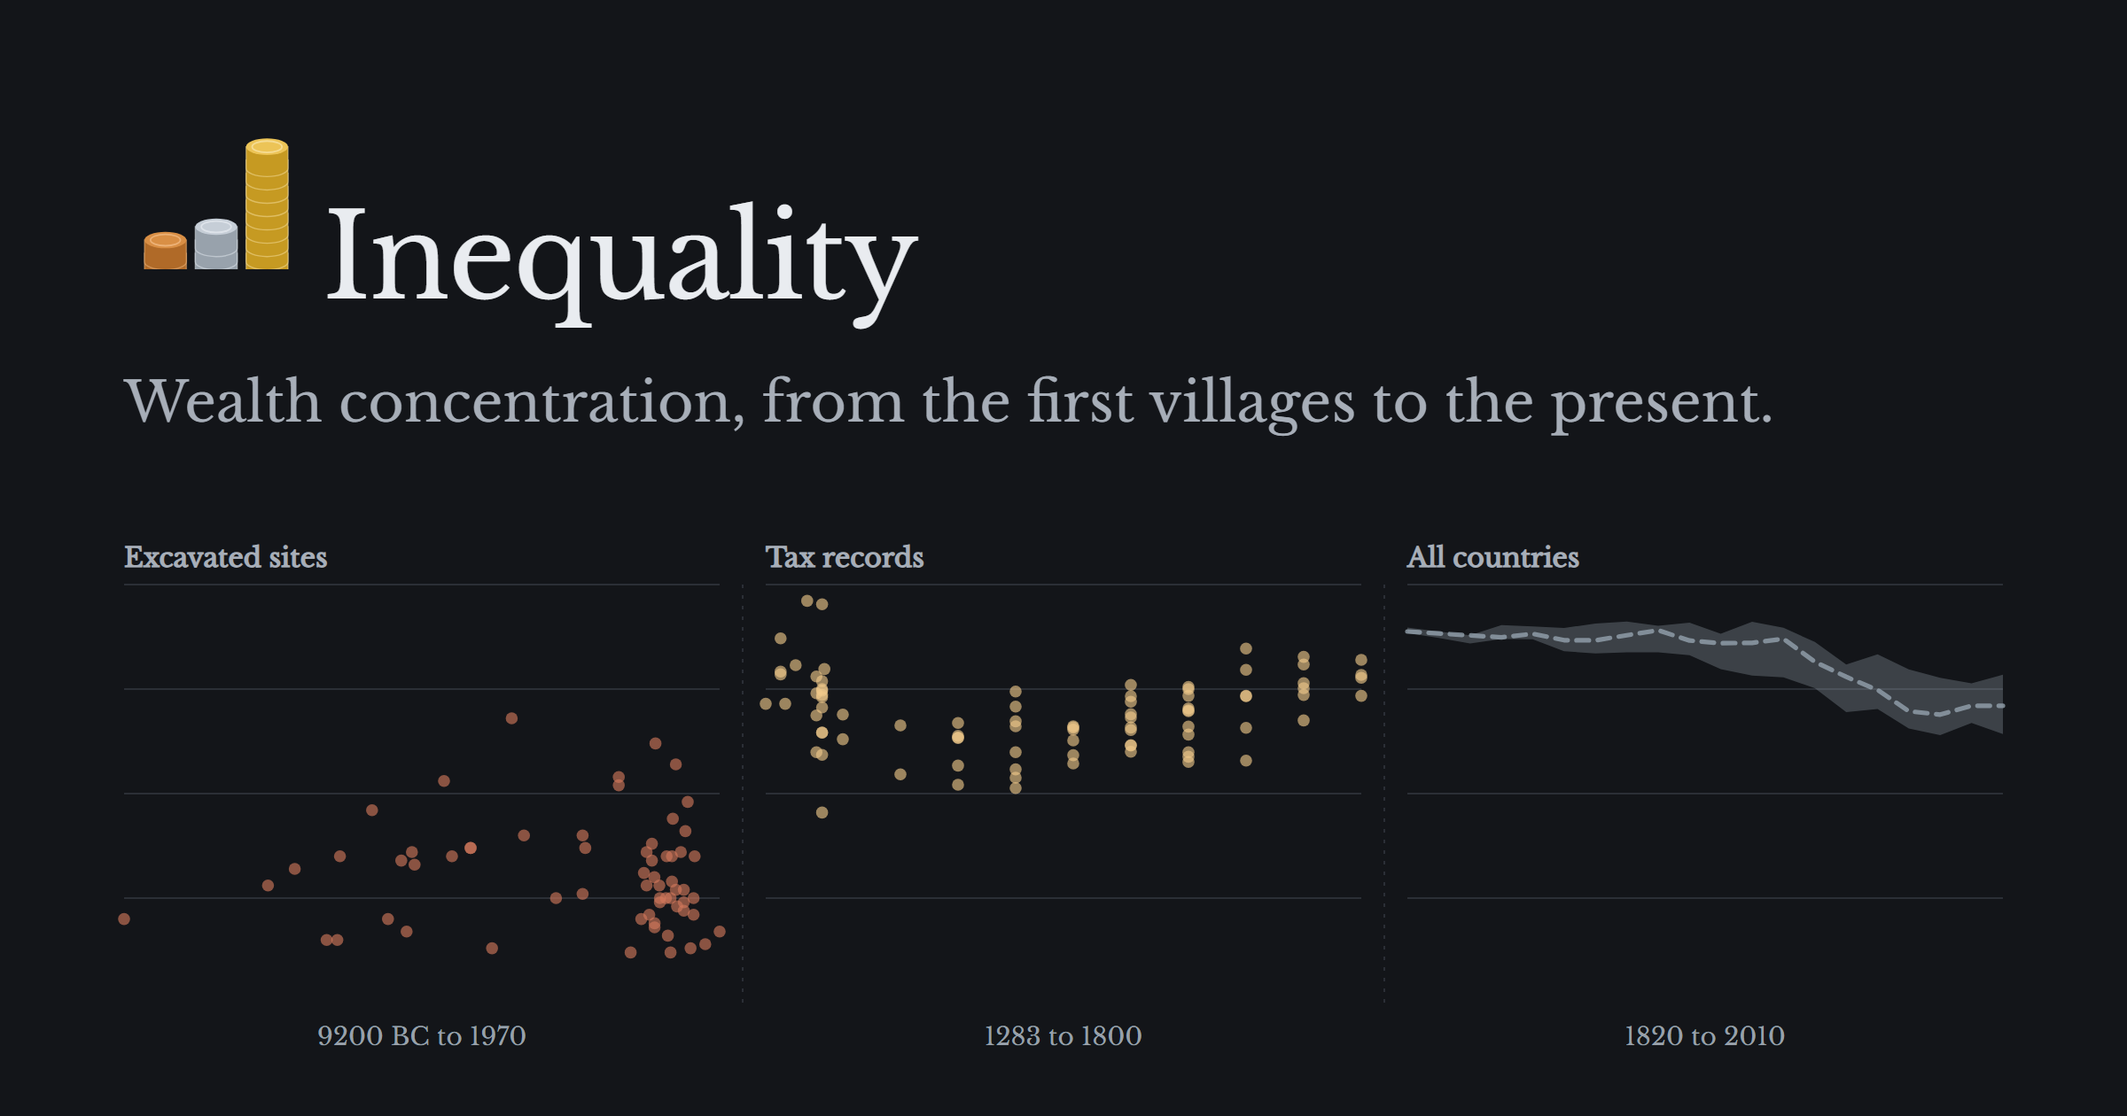
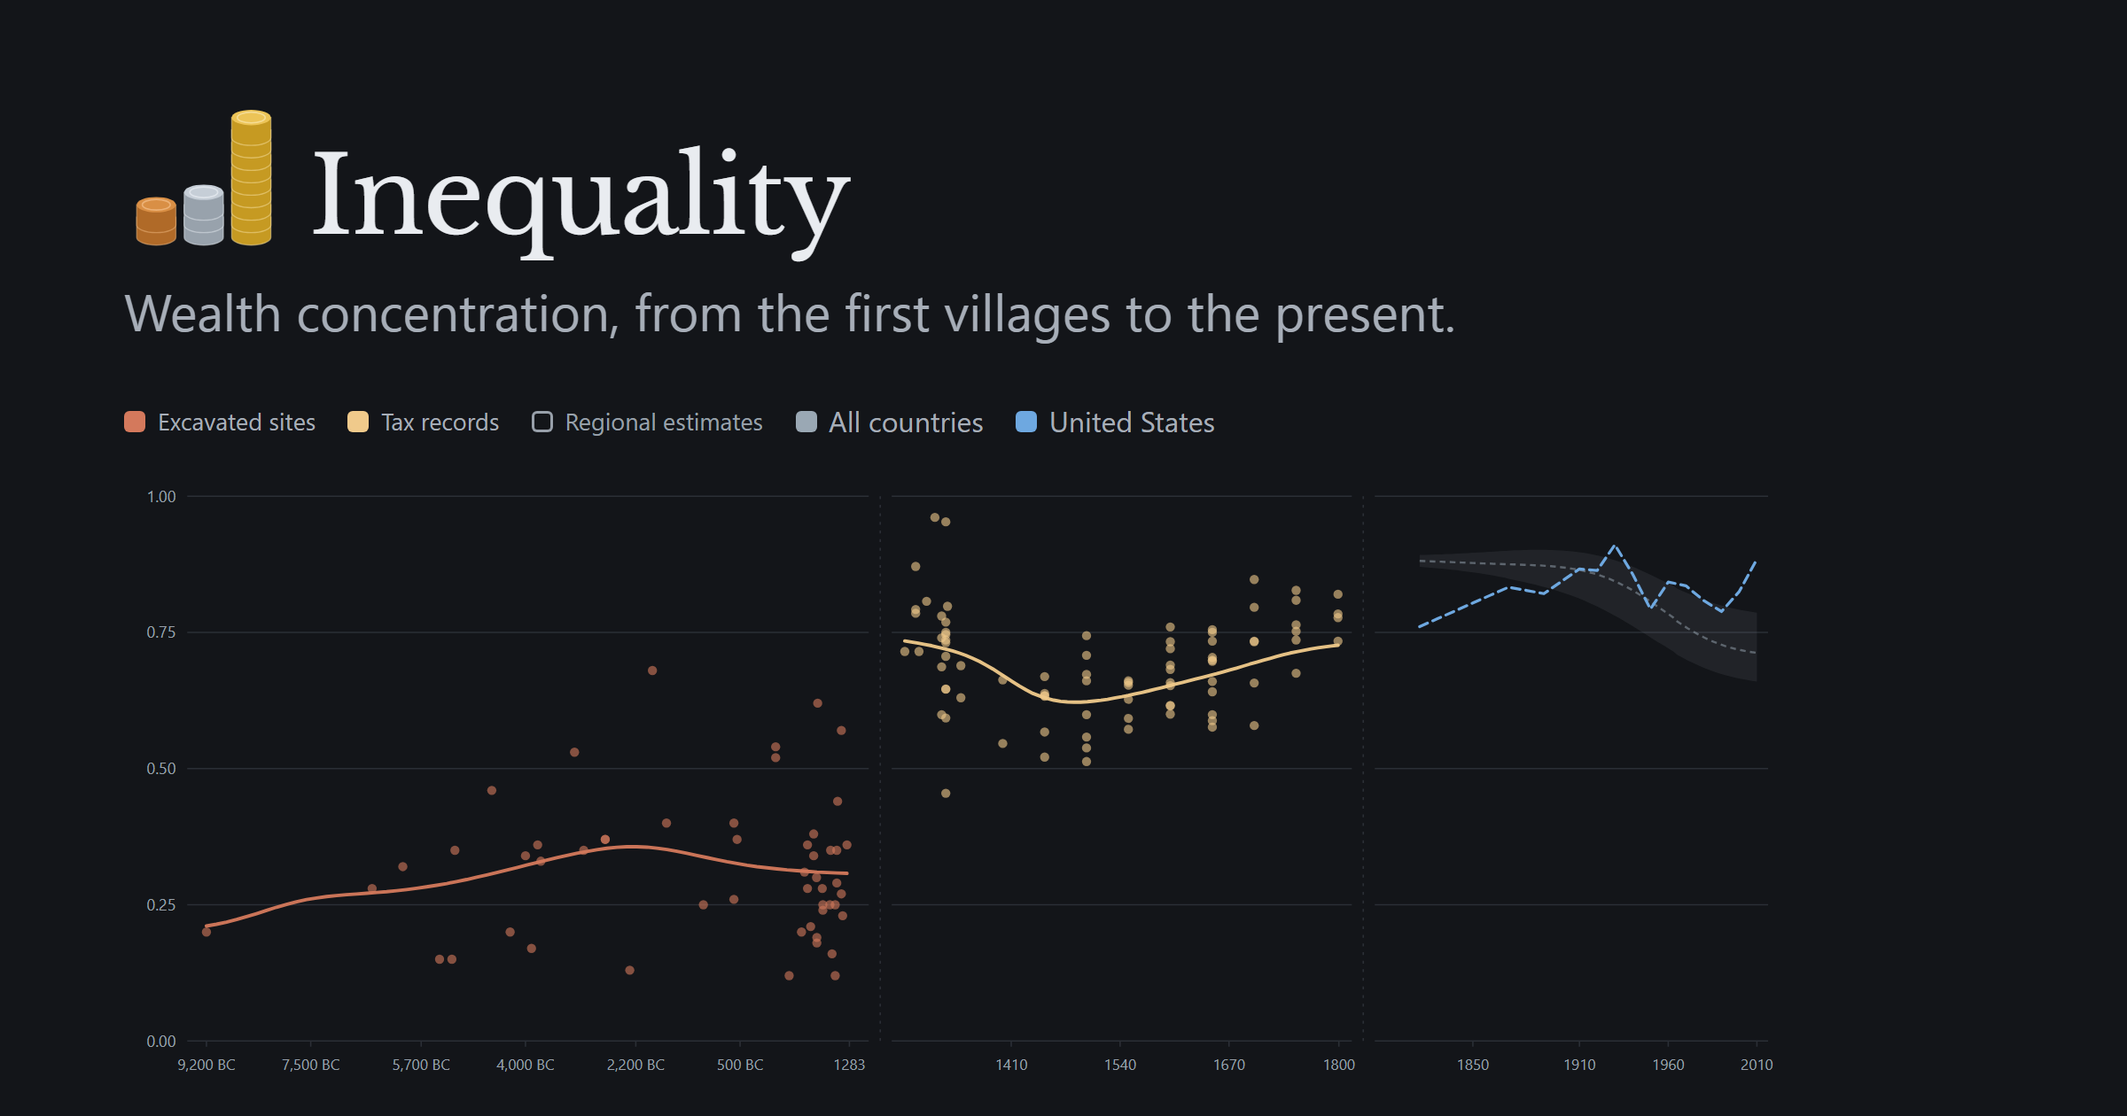
Inequality: the share card IS the page's chart now, not a redraw of it
Charlie: "the picture in the whatsapp message still doesnt look like the
picture on the main page". It did not, and patching the differences one at a
time was never going to close the gap, because the card was a second
implementation of a drawing that already exists.

It had equal-width panels where the page weights them by the log of their
span, panel headers the page dropped, one range caption where the page has a
dated axis, and neither the kernel averages nor the picked country's line,
because reimplementing those here would have been a second copy of an
estimator to keep in step. Every one of those is the same failure.

So the card now loads the page over a throwaway local server, waits for it to
draw, and lifts its h1, its standfirst, its key and its `#eras` SVG verbatim.
It renders wider than a browser would allow, by raising the .wrap cap before
the chart measures itself, because a 960px chart stretched to 1200 is soft.
There is nothing left to drift.

Two things that had to be learned by doing: file:// cannot fetch data.json, so
the page never draws and the first attempt timed out waiting for a polygon;
and the wordmark, pasted into this file as a string, stretched to four hundred
pixels tall because the page's own stylesheet gives `.mark` a flex:none that a
pasted copy does not carry. Both are the same lesson as the chart, so the
header is lifted too.

The title also comes up 0.1em, page and card together. Sitting the word
[…]

diff --git a/site/inequality/style.css b/site/inequality/style.css
@@ -543,9 +543,15 @@ h1.coin-title {
    zero-height inline span inside .title-word to find the true baseline, compare
    it with the mark's box top plus (60.4-8)/48 of its height, and close the gap.
    That came out at 0.305em on a laptop and 0.275em on a phone, on top of the
-   0.26em already applied. Hence 0.55em, and it holds at both ends because every
-   term in the sum is in em. */
-.title-word { display: inline-block; transform: translateY(0.55em); }
+   0.26em already applied, which put the baseline exactly on the coins at 0.55em.
+
+   0.45, not 0.55: exact alignment turned out to be a hair too low by eye, which
+   is the usual result of optical versus geometric centring - the coins are a
+   solid mass and the word is mostly white space, so sitting them on one line
+   makes the word read as having sunk. The measurement was still the point,
+   because it is what turned a fifth guess into one adjustment from a known
+   position. */
+.title-word { display: inline-block; transform: translateY(0.45em); }
 
 /* More air under the title on a phone, where the standfirst wraps to two lines
    and ran straight into the coins. This has to come AFTER the base rule above:

diff --git a/site/style.css b/site/style.css
@@ -543,9 +543,15 @@ h1.coin-title {
    zero-height inline span inside .title-word to find the true baseline, compare
    it with the mark's box top plus (60.4-8)/48 of its height, and close the gap.
    That came out at 0.305em on a laptop and 0.275em on a phone, on top of the
-   0.26em already applied. Hence 0.55em, and it holds at both ends because every
-   term in the sum is in em. */
-.title-word { display: inline-block; transform: translateY(0.55em); }
+   0.26em already applied, which put the baseline exactly on the coins at 0.55em.
+
+   0.45, not 0.55: exact alignment turned out to be a hair too low by eye, which
+   is the usual result of optical versus geometric centring - the coins are a
+   solid mass and the word is mostly white space, so sitting them on one line
+   makes the word read as having sunk. The measurement was still the point,
+   because it is what turned a fifth guess into one adjustment from a known
+   position. */
+.title-word { display: inline-block; transform: translateY(0.45em); }
 
 /* More air under the title on a phone, where the standfirst wraps to two lines
    and ran straight into the coins. This has to come AFTER the base rule above:

diff --git a/scripts/make_inequality_card.py b/scripts/make_inequality_card.py
@@ -1,172 +1,138 @@
 """Render the link-preview card for the inequality page.
 
-Drawn from data/out/wealth.json rather than screenshotted, so it cannot drift
-into showing a chart the page no longer has. Dark, like the other card and like
-the chat window it will be unfurled in. 2400x1260, twice what the scrapers ask
-for.
+THE CHART ON THIS CARD IS THE PAGE'S OWN CHART, lifted out of a real render.
 
-The strip along the bottom is the real Gini data in the page's own three
-panels, so the card carries the actual shape of the finding: it climbs through
-the archaeology, climbs again through the tax registers, and falls in the
-twentieth century.
+The card used to redraw the data itself, on the theory that a hand-drawn chart
+could not go stale the way a screenshot could. It went stale anyway, just more
+quietly: it drew Alfani's regional series as four lines when the page draws
+them as dots, it kept panel headers after the page dropped them, it labelled
+the panels "Excavated settlements" and "Whole countries" after the key had
+settled on "Excavated sites" and "All countries", it had equal-width panels
+where the page weights them by the log of their span, and it had neither the
+kernel averages nor the picked country's line, because reimplementing those
+here would have been a second copy of an estimator to keep in step.
 
-It also has to carry the page's own MARKS and NAMES, which is the half that
-drifted. The card was drawing Alfani's regional series as four lines through
-the middle panel while the page draws them as dots and keeps them folded away
-by default, and it labelled the panels "Excavated settlements", "Tax registers"
-and "Whole countries" after the key had settled on "Excavated sites", "Tax
-records" and "All countries". A preview that shows a chart the reader will not
-find is worse than no preview.
+Every one of those is the same failure: a second implementation of a drawing
+that already exists, diverging one commit at a time. So this loads the page,
+waits for it to draw, and takes its `#eras` SVG and its key verbatim. There is
+nothing left to drift.
 
-    python scripts/make_wealth_card.py
+The page is rendered wider than a browser window would allow, by lifting the
+.wrap max-width before the chart measures itself, because the card is 1200
+wide and a 960px chart stretched into it would be soft. Dark, like the other
+card and like the chat window it will be unfurled in. 2400x1260 output, twice
+what the scrapers ask for.
+
+    python scripts/make_inequality_card.py
 """
 from __future__ import annotations
 
-import json
+import contextlib
+import functools
+import http.server
+import threading
 from pathlib import Path
 
 from playwright.sync_api import sync_playwright
 
 ROOT = Path(__file__).resolve().parents[1]
-DATA = json.loads((ROOT / "data" / "out" / "wealth.json").read_text(encoding="utf-8"))
+SITE = ROOT / "site" / "inequality"
 
 W, H = 1200, 630
-BG, INK, INK_SOFT, INK_FAINT, RULE = "#131519", "#e9ecf0", "#a7aeb8", "#98a0aa", "#2b2f36"
-# the page's own dark-mode values, which is what a chat window shows
-DEEP, EARLY, MID = "#d4795c", "#f0ca8b", "#9aa8b4"
-BRONZE, SILVER, GOLD = "#cd7f32", "#c3cad2", "#e3b93f"
+PAD = 70
+# how tall the lifted chart is allowed to be once it is scaled into the card
+CHART_H = 348
+# the page's own dark palette, so the card reads as the page at night
+BG, INK, INK_SOFT = "#131519", "#e9ecf0", "#a7aeb8"
 
-# the chart strip
-CX, CY, CW, CH = 70, 330, W - 140, 236
-GUT = 26
+@contextlib.contextmanager
+def served(root: Path):
+    """The page over http, not file://.
 
-
-def panels():
-    """The same three the page draws, on the Gini, with the same names.
-
-    Dots and a band, no trend lines. The page fits a Gaussian kernel through
-    each scatter, and reimplementing that here would be a second copy of an
-    estimator to keep in step with the first; dots alone are still honestly
-    what the page shows, just without the summary drawn over them.
+    It fetches data.json, and a file:// origin cannot, so a file:// render is a
+    page that never draws anything. The chart simply never appeared and the
+    first attempt at this timed out waiting for a polygon.
     """
-    deep = [(p["year"], p["gini"]) for p in DATA["points"]
-            if p["layer"] == "deep" and p.get("gini") is not None]
-    early = [(p["year"], p["gini"]) for p in DATA["points"]
-             if p["layer"] == "preindustrial" and not p.get("rollup")
-             and p.get("gini") is not None]
-    return [
-        {"label": "Excavated sites", "dots": deep, "colour": DEEP, "band": []},
-        {"label": "Tax records", "dots": early, "colour": EARLY, "band": []},
-        {"label": "All countries", "dots": [], "colour": MID, "band": _quartiles()},
-    ]
+    handler = functools.partial(http.server.SimpleHTTPRequestHandler,
+                                directory=str(root))
+    srv = http.server.ThreadingHTTPServer(("127.0.0.1", 0), handler)
+    threading.Thread(target=srv.serve_forever, daemon=True).start()
+    try:
+        yield f"http://127.0.0.1:{srv.server_address[1]}/"
+    finally:
+        srv.shutdown()
+        srv.server_close()
 
 
-def _quartiles():
-    """p25, p50 and p75 across every country with a Gini that decade.
+def lift() -> dict:
+    """Open the real page and take its header, its key and its chart.
 
-    The same shape the page's third panel draws. A single median line, which is
-    what the card had, said nothing about how far apart countries were.
+    The wordmark used to be a copy of the page's SVG pasted into this file as a
+    string, and the copy lost: the page's own stylesheet, which the card also
+    loads, styles `.mark` with a flex:none and an em height, and a pasted mark
+    without that class stretched to fill the flex row. The coins came out four
+    hundred pixels tall. Lifting the h1 solves it the same way lifting the chart
+    solved the chart, by having one implementation instead of two.
     """
-    by = {}
-    for c in DATA["countries"].values():
-        for y, v in c["industrial"]["gini"]:
-            by.setdefault(y, []).append(v)
-
-    def q(vs, p):
-        i = (len(vs) - 1) * p
-        lo, hi = int(i), min(int(i) + 1, len(vs) - 1)
-        return vs[lo] + (vs[hi] - vs[lo]) * (i - lo)
-
-    out = []
-    for y in sorted(by):
-        vs = sorted(by[y])
-        if len(vs) < 4:          # a quartile over three countries is noise
-            continue
-        out.append((y, q(vs, 0.25), q(vs, 0.5), q(vs, 0.75)))
+    with served(SITE) as base, sync_playwright() as pw:
+        br = pw.chromium.launch()
+        pg = br.new_page(viewport={"width": 1320, "height": 1000},
+                         color_scheme="dark", device_scale_factor=1)
+        pg.goto(base, wait_until="networkidle")
+        pg.wait_for_selector("#eras polygon", timeout=15000)
+        # widen the column BEFORE the chart measures itself, then make it
+        # re-measure: the chart takes its pixel width from its container, and
+        # the page caps that at 960
+        pg.add_style_tag(content=".wrap { max-width: 1240px !important; }")
+        pg.evaluate("() => window.dispatchEvent(new Event('resize'))")
+        pg.wait_for_timeout(600)
+        out = {k: pg.eval_on_selector(sel, "e => e.outerHTML") for k, sel in (
+            ("head", "h1.coin-title"), ("sf", ".standfirst"),
+            ("legend", "#legend-eras"), ("svg", "#eras"))}
+        box = pg.eval_on_selector(
+            "#eras", "e => e.getAttribute('viewBox').split(' ').slice(2).map(Number)")
+        br.close()
+    out["ratio"] = box[1] / box[0]
     return out
 
 
-def draw() -> str:
-    each = (CW - GUT * 2) / 3
-    parts = []
-    for i, pan in enumerate(panels()):
-        x0 = CX + i * (each + GUT)
-        years = [y for y, _ in pan["dots"]] + [b[0] for b in pan["band"]]
-        lo, hi = min(years), max(years)
-        span = (hi - lo) or 1
-        sx = lambda y: x0 + (y - lo) / span * each          # noqa: E731
-        sy = lambda v: CY + (1 - v) * CH                    # noqa: E731
-
-        for t in (0.25, 0.5, 0.75, 1.0):
-            parts.append(f'<line x1="{x0:.0f}" y1="{sy(t):.1f}" x2="{x0 + each:.0f}" '
-                         f'y2="{sy(t):.1f}" stroke="{RULE}" stroke-width="1"/>')
-        if pan["band"]:
-            top = [f"{sx(y):.1f},{sy(p75):.1f}" for y, _, _, p75 in pan["band"]]
-            bot = [f"{sx(y):.1f},{sy(p25):.1f}" for y, p25, _, _ in reversed(pan["band"])]
-            parts.append(f'<polygon points="{" ".join(top + bot)}" '
-                         # .3, not the page's .15: the page shades against white
-                         # and this shades against #131519, where a fill that
-                         # light is invisible
-                         f'fill="{pan["colour"]}" fill-opacity=".3"/>')
-            mid = " ".join(f"{sx(y):.1f},{sy(p50):.1f}" for y, _, p50, _ in pan["band"])
-            parts.append(f'<polyline points="{mid}" fill="none" stroke="{pan["colour"]}" '
-                         f'stroke-width="2.6" stroke-opacity=".75" stroke-dasharray="7 5" '
-                         f'stroke-linejoin="round" stroke-linecap="round"/>')
-        for y, v in pan["dots"]:
-            parts.append(f'<circle cx="{sx(y):.1f}" cy="{sy(v):.1f}" r="3.4" '
-                         f'fill="{pan["colour"]}" fill-opacity=".62"/>')
-        parts.append(f'<text x="{x0:.0f}" y="{CY - 10:.0f}" font-size="15" '
-                     f'font-weight="600" fill="{INK_SOFT}">{pan["label"]}</text>')
-        parts.append(f'<text x="{x0 + each / 2:.0f}" y="{CY + CH + 24:.0f}" '
-                     f'text-anchor="middle" font-size="14" fill="{INK_FAINT}">'
-                     f'{_span(lo, hi)}</text>')
-        if i < 2:
-            gx = x0 + each + GUT / 2
-            parts.append(f'<line x1="{gx:.0f}" y1="{CY:.0f}" x2="{gx:.0f}" '
-                         f'y2="{CY + CH:.0f}" stroke="{RULE}" stroke-width="1" '
-                         f'stroke-dasharray="2 4"/>')
-    return "".join(parts)
-
-
-def _span(lo: int, hi: int) -> str:
-    fmt = lambda y: f"{abs(y)} BC" if y < 0 else str(y)     # noqa: E731
-    return f"{fmt(lo)} to {fmt(hi)}"
-
-
-MARK = """<svg viewBox="0 8 58 48" width="104" height="86"><path d="M6.40 51.00 L6.40 57.80 A6.60 2.60 0 0 0 19.60 57.80 L19.60 51.00 Z" fill="#b06a28" stroke="#f0b982" stroke-width=".4" stroke-opacity=".5"/><path d="M6.40 46.80 L6.40 53.60 A6.60 2.60 0 0 0 19.60 53.60 L19.60 46.80 Z" fill="#b06a28" stroke="#f0b982" stroke-width=".4" stroke-opacity=".5"/><ellipse cx="13.00" cy="46.80" rx="6.60" ry="2.60" fill="#d98f45"/><ellipse cx="13.00" cy="46.80" rx="4.70" ry="1.80" fill="none" stroke="#f0b982" stroke-width=".5" opacity=".8"/><path d="M22.40 51.00 L22.40 57.80 A6.60 2.60 0 0 0 35.60 57.80 L35.60 51.00 Z" fill="#98a2ac" stroke="#e3e9ef" stroke-width=".4" stroke-opacity=".5"/><path d="M22.40 46.80 L22.40 53.60 A6.60 2.60 0 0 0 35.60 53.60 L35.60 46.80 Z" fill="#98a2ac" stroke="#e3e9ef" stroke-width=".4" stroke-opacity=".5"/><path d="M22.40 42.60 L22.40 49.40 A6.60 2.60 0 0 0 35.60 49.40 L35.60 42.60 Z" fill="#98a2ac" stroke="#e3e9ef" stroke-width=".4" stroke-opacity=".5"/><ellipse cx="29.00" cy="42.60" rx="6.60" ry="2.60" fill="#c6ced7"/><ellipse cx="29.00" cy="42.60" rx="4.70" ry="1.80" fill="none" stroke="#e3e9ef" stroke-width=".5" opacity=".8"/><path d="M38.40 51.00 L38.40 57.80 A6.60 2.60 0 0 0 51.60 57.80 L51.60 51.00 Z" fill="#c69a22" stroke="#f7e2a4" stroke-width=".4" stroke-opacity=".5"/><path d="M38.40 46.80 L38.40 53.60 A6.60 2.60 0 0 0 51.60 53.60 L51.60 46.80 Z" fill="#c69a22" stroke="#f7e2a4" stroke-width=".4" stroke-opacity=".5"/><path d="M38.40 42.60 L38.40 49.40 A6.60 2.60 0 0 0 51.60 49.40 L51.60 42.60 Z" fill="#c69a22" stroke="#f7e2a4" stroke-width=".4" stroke-opacity=".5"/><path d="M38.40 38.40 L38.40 45.20 A6.60 2.60 0 0 0 51.60 45.20 L51.60 38.40 Z" fill="#c69a22" stroke="#f7e2a4" stroke-width=".4" stroke-opacity=".5"/><path d="M38.40 34.20 L38.40 41.00 A6.60 2.60 0 0 0 51.60 41.00 L51.60 34.20 Z" fill="#c69a22" stroke="#f7e2a4" stroke-width=".4" stroke-opacity=".5"/><path d="M38.40 30.00 L38.40 36.80 A6.60 2.60 0 0 0 51.60 36.80 L51.60 30.00 Z" fill="#c69a22" stroke="#f7e2a4" stroke-width=".4" stroke-opacity=".5"/><path d="M38.40 25.80 L38.40 32.60 A6.60 2.60 0 0 0 51.60 32.60 L51.60 25.80 Z" fill="#c69a22" stroke="#f7e2a4" stroke-width=".4" stroke-opacity=".5"/><path d="M38.40 21.60 L38.40 28.40 A6.60 2.60 0 0 0 51.60 28.40 L51.60 21.60 Z" fill="#c69a22" stroke="#f7e2a4" stroke-width=".4" stroke-opacity=".5"/><path d="M38.40 17.40 L38.40 24.20 A6.60 2.60 0 0 0 51.60 24.20 L51.60 17.40 Z" fill="#c69a22" stroke="#f7e2a4" stroke-width=".4" stroke-opacity=".5"/><ellipse cx="45.00" cy="17.40" rx="6.60" ry="2.60" fill="#ecc457"/><ellipse cx="45.00" cy="17.40" rx="4.70" ry="1.80" fill="none" stroke="#f7e2a4" stroke-width=".5" opacity=".8"/></svg>"""
-
-HTML = f"""<!doctype html><meta charset="utf-8">
+def card_html(bits: dict) -> str:
+    # scale to the tallest the card can take, but never wider than the column
+    width = min(W - PAD * 2, CHART_H / bits["ratio"])
+    return f"""<!doctype html><meta charset="utf-8">
 <link href="https://fonts.googleapis.com/css2?family=Libre+Baskerville:wght@400&display=block" rel="stylesheet">
+<link rel="stylesheet" href="style.css">
 <style>
-  * {{ margin:0; box-sizing:border-box; }}
   body {{ width:{W}px; height:{H}px; background:{BG}; overflow:hidden;
-         font-family:'Libre Baskerville',Georgia,serif; }}
-  .top {{ padding:66px 70px 0; }}
-  .head {{ display:flex; align-items:center; gap:8px; }}
-  .head span {{ display:inline-block; transform:translateY(.55em); }}
-  h1 {{ font-size:66px; letter-spacing:-.015em; color:{INK}; font-weight:400; }}
-  /* 56, not 20. The word is dropped .55em by a transform, which takes up no
-     space, so without this the descenders of "Inequality" land on top of the
-     standfirst. Same correction the page needed for the same reason. */
-  p {{ margin-top:56px; font-size:31px; color:{INK_SOFT}; }}
-  svg.chart {{ position:absolute; left:0; top:0; }}
+          margin:0; padding:44px {PAD}px 0; }}
+  /* the header is the page's own, at the card's scale rather than the page's
+     clamp, which is tuned for a browser window and not for a 1200px still */
+  h1.coin-title {{ font-size:60px; }}
+  .standfirst {{ font-size:29px; max-width:none; }}
+  #legend-eras {{ margin-top:26px; font-size:16px; }}
+  /* the key keeps its colours and loses its affordances: a picture cannot be
+     pressed, so the button chrome and the hover underline are noise on it */
+  #legend-eras .key {{ background:none; border:none; padding:0; }}
+  #legend-eras .explained {{ text-decoration:none; border:0; }}
+  .chart {{ width:{width:.0f}px; margin-top:22px; }}
+  .chart svg {{ width:100%; height:auto; display:block; }}
 </style>
-<svg class="chart" width="{W}" height="{H}">{draw()}</svg>
-<div class="top">
-  <div class="head">{MARK}<h1><span>Inequality</span></h1></div>
-  <p>Wealth concentration, from the first villages to the present.</p>
-</div>
+{bits["head"]}
+{bits["sf"]}
+{bits["legend"]}
+<div class="chart">{bits["svg"]}</div>
 """
 
 
 def main() -> int:
-    tmp = ROOT / "site" / "inequality" / "_og.html"
-    out = ROOT / "site" / "inequality" / "og-card.png"
-    tmp.write_text(HTML, encoding="utf-8")
-    with sync_playwright() as pw:
+    tmp = SITE / "_og.html"
+    out = SITE / "og-card.png"
+    tmp.write_text(card_html(lift()), encoding="utf-8")
+    with served(SITE) as base, sync_playwright() as pw:
         br = pw.chromium.launch()
-        pg = br.new_page(viewport={"width": W, "height": H}, device_scale_factor=2)
-        pg.goto(tmp.as_uri())
+        pg = br.new_page(viewport={"width": W, "height": H},
+                         color_scheme="dark", device_scale_factor=2)
+        pg.goto(base + tmp.name)
         pg.wait_for_timeout(2500)  # the webfont has to arrive
         pg.screenshot(path=str(out))
         br.close()
